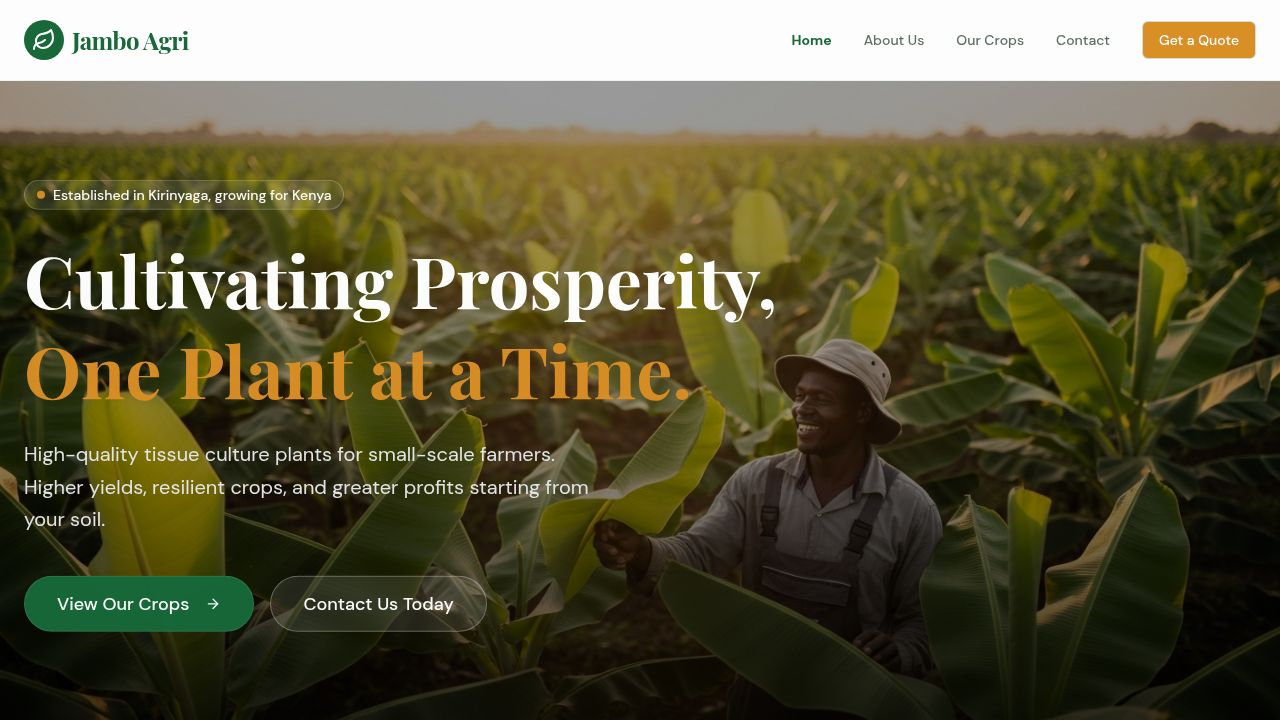
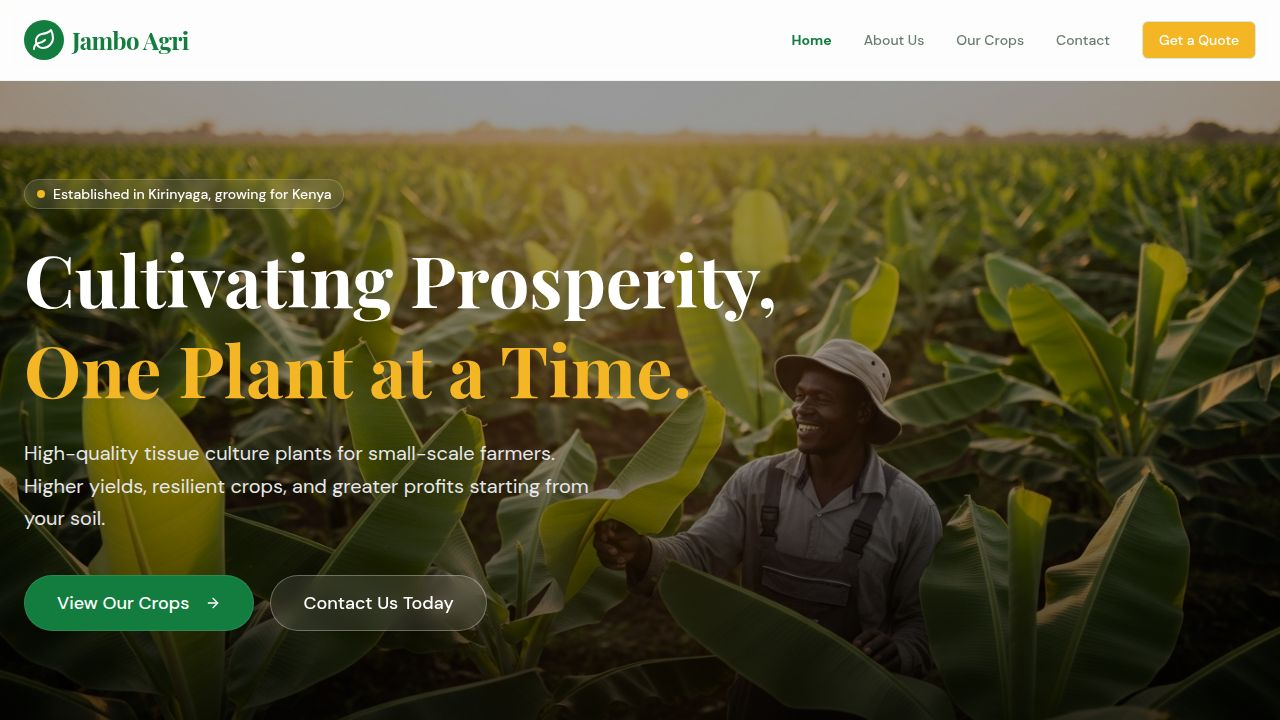
Refresh website colors and fix layout issues on the home page
Update CSS variables for primary, secondary, background, muted, accent, border, input, and ring colors. Adjust decorative element positioning and z-index in the Home page's CTA section, and change the "Get a Free Consultation" button to a Link component pointing to "/contact".

Replit-Commit-Author: Agent
Replit-Commit-Session-Id: 90b3d125-a719-43f8-9fa8-ecc16a1e0908
Replit-Commit-Checkpoint-Type: full_checkpoint
Replit-Commit-Event-Id: 03d62eb6-cc2e-4718-811a-6352fe7548c1
Replit-Commit-Screenshot-Url: https://storage.googleapis.com/screenshot-production-us-central1/6f0e764a-64e4-4728-8ac5-a208948a9dd3/90b3d125-a719-43f8-9fa8-ecc16a1e0908/md8IiTD
Replit-Helium-Checkpoint-Created: true

diff --git a/client/src/pages/Home.tsx b/client/src/pages/Home.tsx
@@ -5,6 +5,7 @@ import FeatureCard from "@/components/ui/FeatureCard";
 import { CheckCircle2, Sprout, Layers, Users, ArrowRight } from "lucide-react";
 import { Button } from "@/components/ui/button";
 import { motion } from "framer-motion";
+import { Link } from "wouter";
 
 // Images
 import bananaImg from "@assets/generated_images/healthy_banana_plant_close_up..png";
@@ -124,10 +125,10 @@ export default function Home() {
         </section>
 
         {/* CTA Section */}
-        <section className="py-24 bg-primary text-white relative overflow-hidden">
+        <section className="py-24 bg-primary text-white relative overflow-hidden isolate">
           {/* Decorative circles */}
-          <div className="absolute top-0 right-0 -mr-20 -mt-20 w-96 h-96 rounded-full bg-white/5 blur-3xl" />
-          <div className="absolute bottom-0 left-0 -ml-20 -mb-20 w-72 h-72 rounded-full bg-secondary/20 blur-3xl" />
+          <div className="absolute top-0 right-0 -mr-20 -mt-20 w-96 h-96 rounded-full bg-white/10 blur-3xl -z-10 pointer-events-none" />
+          <div className="absolute bottom-0 left-0 -ml-20 -mb-20 w-72 h-72 rounded-full bg-secondary/30 blur-3xl -z-10 pointer-events-none" />
           
           <div className="container mx-auto px-4 md:px-6 relative z-10 text-center">
             <h2 className="font-serif text-4xl md:text-5xl font-bold mb-6">
@@ -137,9 +138,11 @@ export default function Home() {
               Get in touch with our team to find the perfect planting materials for your farm.
               Success starts with the right seed.
             </p>
-            <Button size="lg" className="bg-secondary hover:bg-secondary/90 text-white font-bold h-14 px-10 rounded-full text-lg shadow-xl hover:shadow-2xl transition-all hover:-translate-y-1">
-              Get a Free Consultation
-            </Button>
+            <Link href="/contact">
+              <Button size="lg" className="bg-secondary hover:bg-secondary/90 text-white font-bold h-14 px-10 rounded-full text-lg shadow-xl hover:shadow-2xl transition-all hover:-translate-y-1">
+                Get a Free Consultation
+              </Button>
+            </Link>
           </div>
         </section>
       </main>

diff --git a/client/src/index.css b/client/src/index.css
@@ -63,17 +63,17 @@
 }
 
 :root {
-  /* Natural, earthy palette */
-  /* Deep Jungle Green for Primary */
-  --primary: hsl(145 63% 25%); 
+  /* Natural, earthy palette - Refreshed */
+  /* Deep Jungle Green for Primary - Slightly more vibrant */
+  --primary: hsl(145 75% 28%); 
   --primary-foreground: hsl(0 0% 100%);
 
-  /* Warm Earth Gold/Brown for Secondary */
-  --secondary: hsl(35 70% 50%);
+  /* Warm Earth Gold/Brown for Secondary - Brighter, less burnt */
+  --secondary: hsl(42 90% 55%);
   --secondary-foreground: hsl(0 0% 100%);
 
   /* Soft Organic White for Background */
-  --background: hsl(40 20% 98%);
+  --background: hsl(45 25% 98%);
   --foreground: hsl(145 30% 15%); /* Dark green-grey for text */
 
   /* Clean White for Cards */
@@ -83,18 +83,18 @@
   --popover: hsl(0 0% 100%);
   --popover-foreground: hsl(145 30% 15%);
 
-  --muted: hsl(145 10% 90%);
-  --muted-foreground: hsl(145 10% 40%);
+  --muted: hsl(145 15% 94%);
+  --muted-foreground: hsl(145 10% 45%);
 
-  --accent: hsl(100 50% 90%); /* Light fresh green */
-  --accent-foreground: hsl(145 63% 25%);
+  --accent: hsl(100 60% 92%); /* Light fresh green */
+  --accent-foreground: hsl(145 75% 28%);
 
   --destructive: hsl(0 84.2% 60.2%);
   --destructive-foreground: hsl(0 0% 98%);
 
-  --border: hsl(145 20% 85%);
-  --input: hsl(145 20% 85%);
-  --ring: hsl(145 63% 25%);
+  --border: hsl(145 20% 88%);
+  --input: hsl(145 20% 88%);
+  --ring: hsl(145 75% 28%);
 
   --radius: 0.5rem;
   
